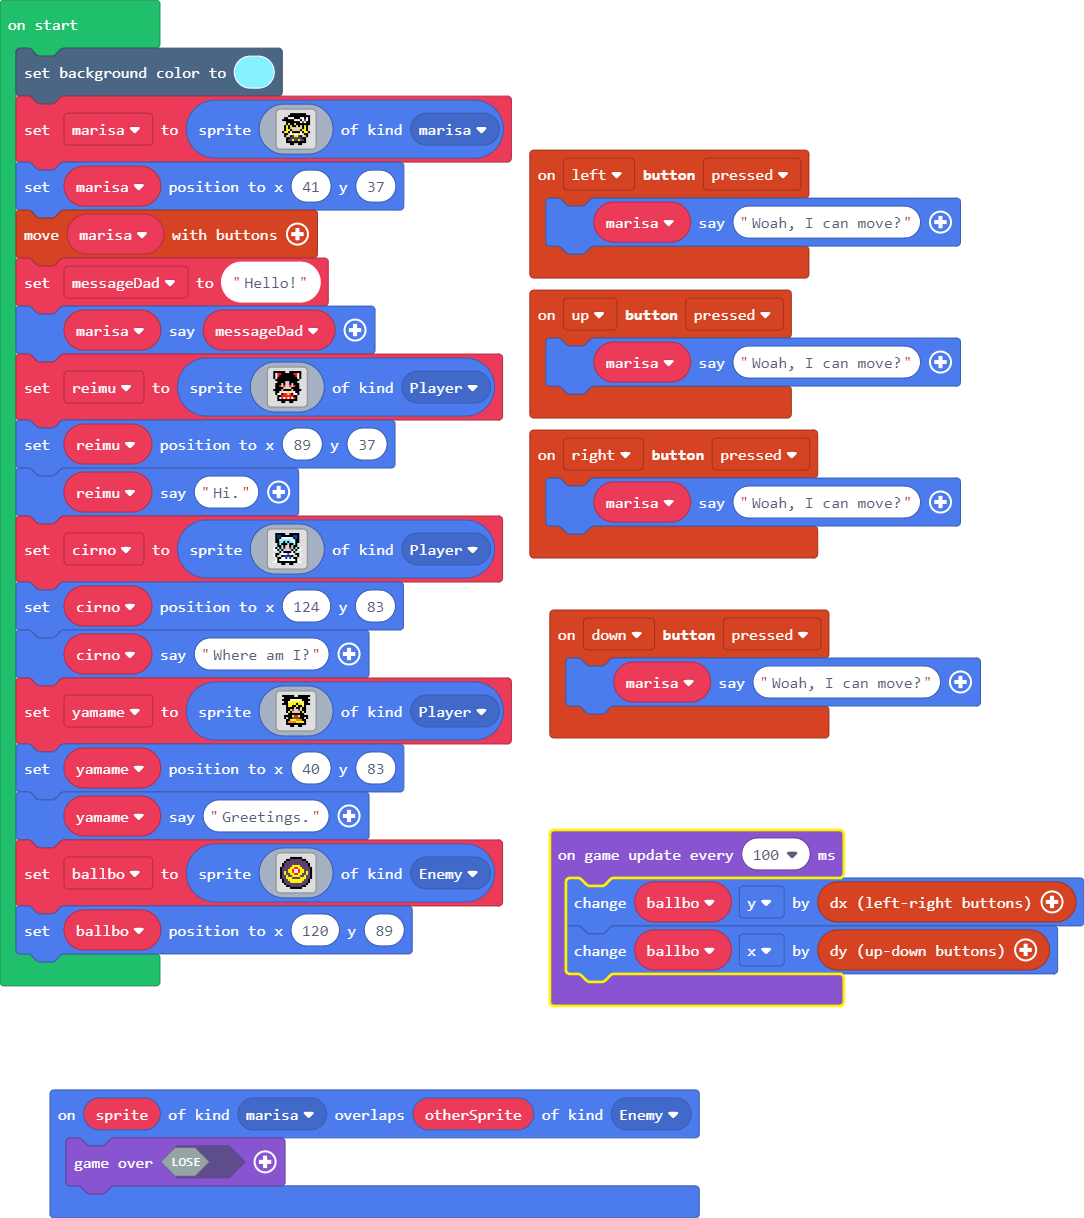
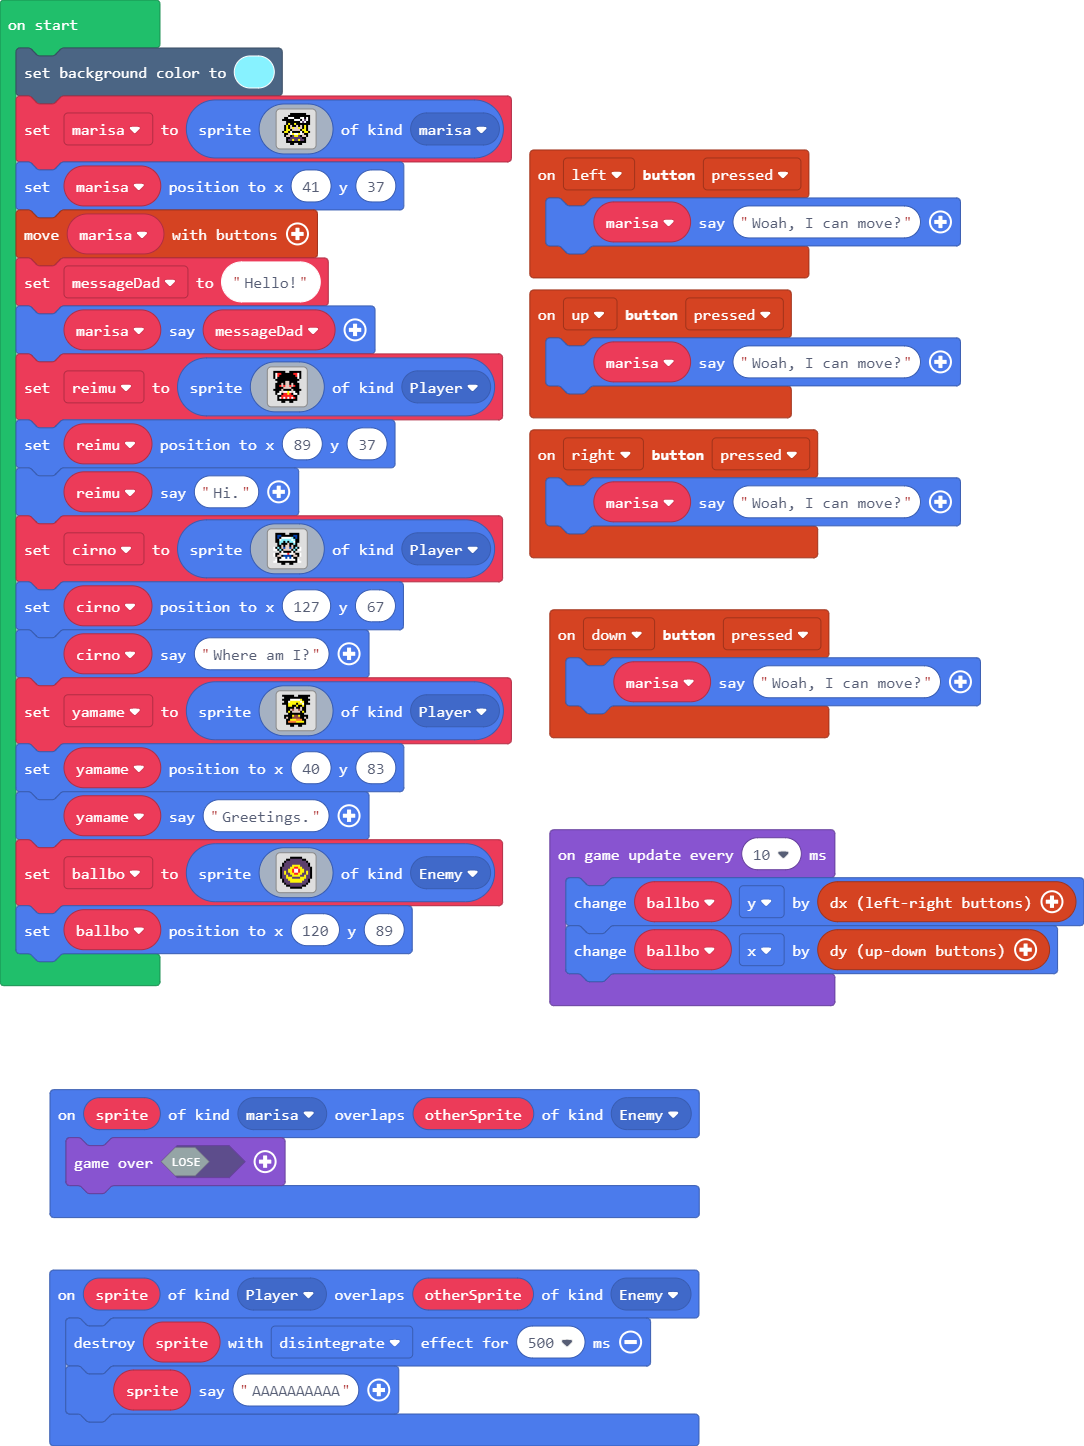
Update main.blocks, main.ts

diff --git a/main.ts b/main.ts
@@ -10,6 +10,10 @@ controller.down.onEvent(ControllerButtonEvent.Pressed, function () {
 sprites.onOverlap(SpriteKind.marisa, SpriteKind.Enemy, function (sprite, otherSprite) {
     game.over(false)
 })
+sprites.onOverlap(SpriteKind.Player, SpriteKind.Enemy, function (sprite, otherSprite) {
+    sprite.destroy(effects.disintegrate, 500)
+    sprite.say("AAAAAAAAAA")
+})
 controller.right.onEvent(ControllerButtonEvent.Pressed, function () {
     marisa.say("Woah, I can move?")
 })
@@ -78,7 +82,7 @@ let cirno = sprites.create(img`
 . 1 1 f f f f f f f f f f 1 1 . 
 . . . . . f f . . f f . . . . . 
 `, SpriteKind.Player)
-cirno.setPosition(124, 83)
+cirno.setPosition(127, 67)
 cirno.say("Where am I?")
 let yamame = sprites.create(img`
 . f f f f f f . . f f f f f f . 
@@ -119,7 +123,7 @@ f c c 5 5 5 c c c c 5 5 5 c c f
 . . . . . f f f f f f . . . . . 
 `, SpriteKind.Enemy)
 ballbo.setPosition(120, 89)
-game.onUpdateInterval(100, function () {
+game.onUpdateInterval(10, function () {
     ballbo.y += controller.dx()
     ballbo.x += controller.dy()
 })
